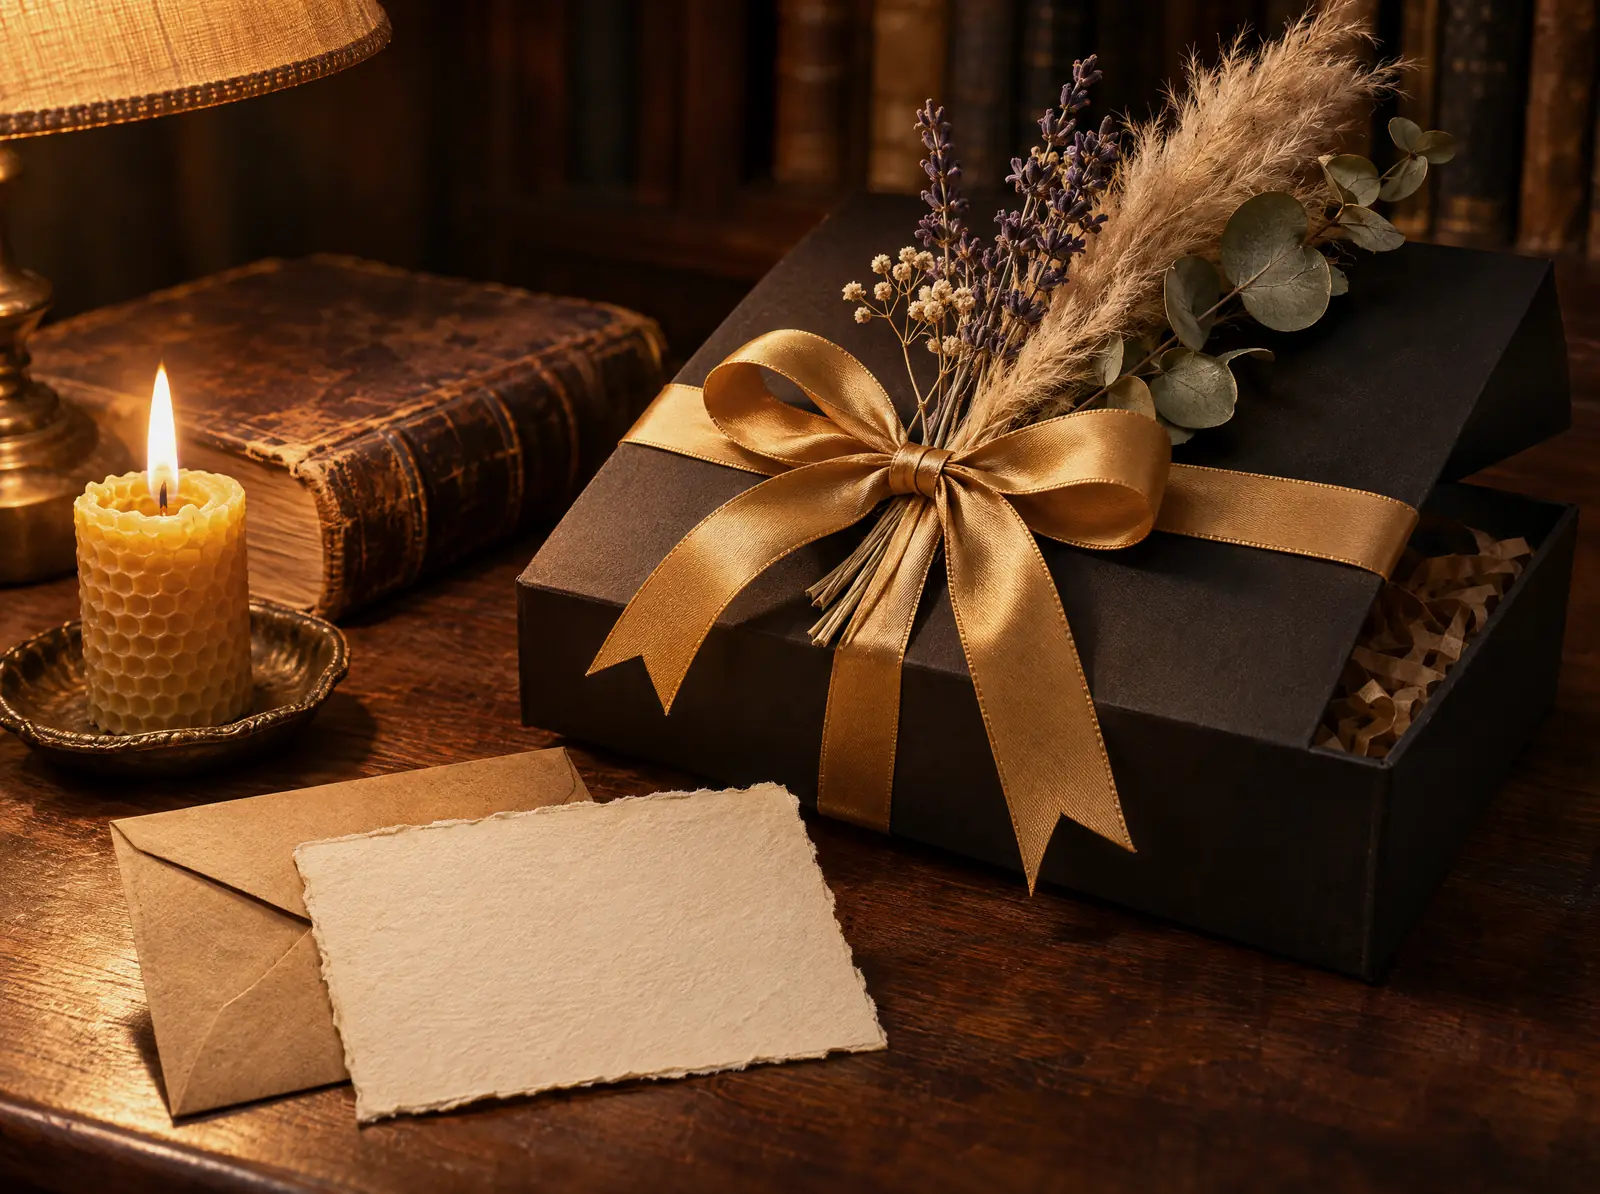
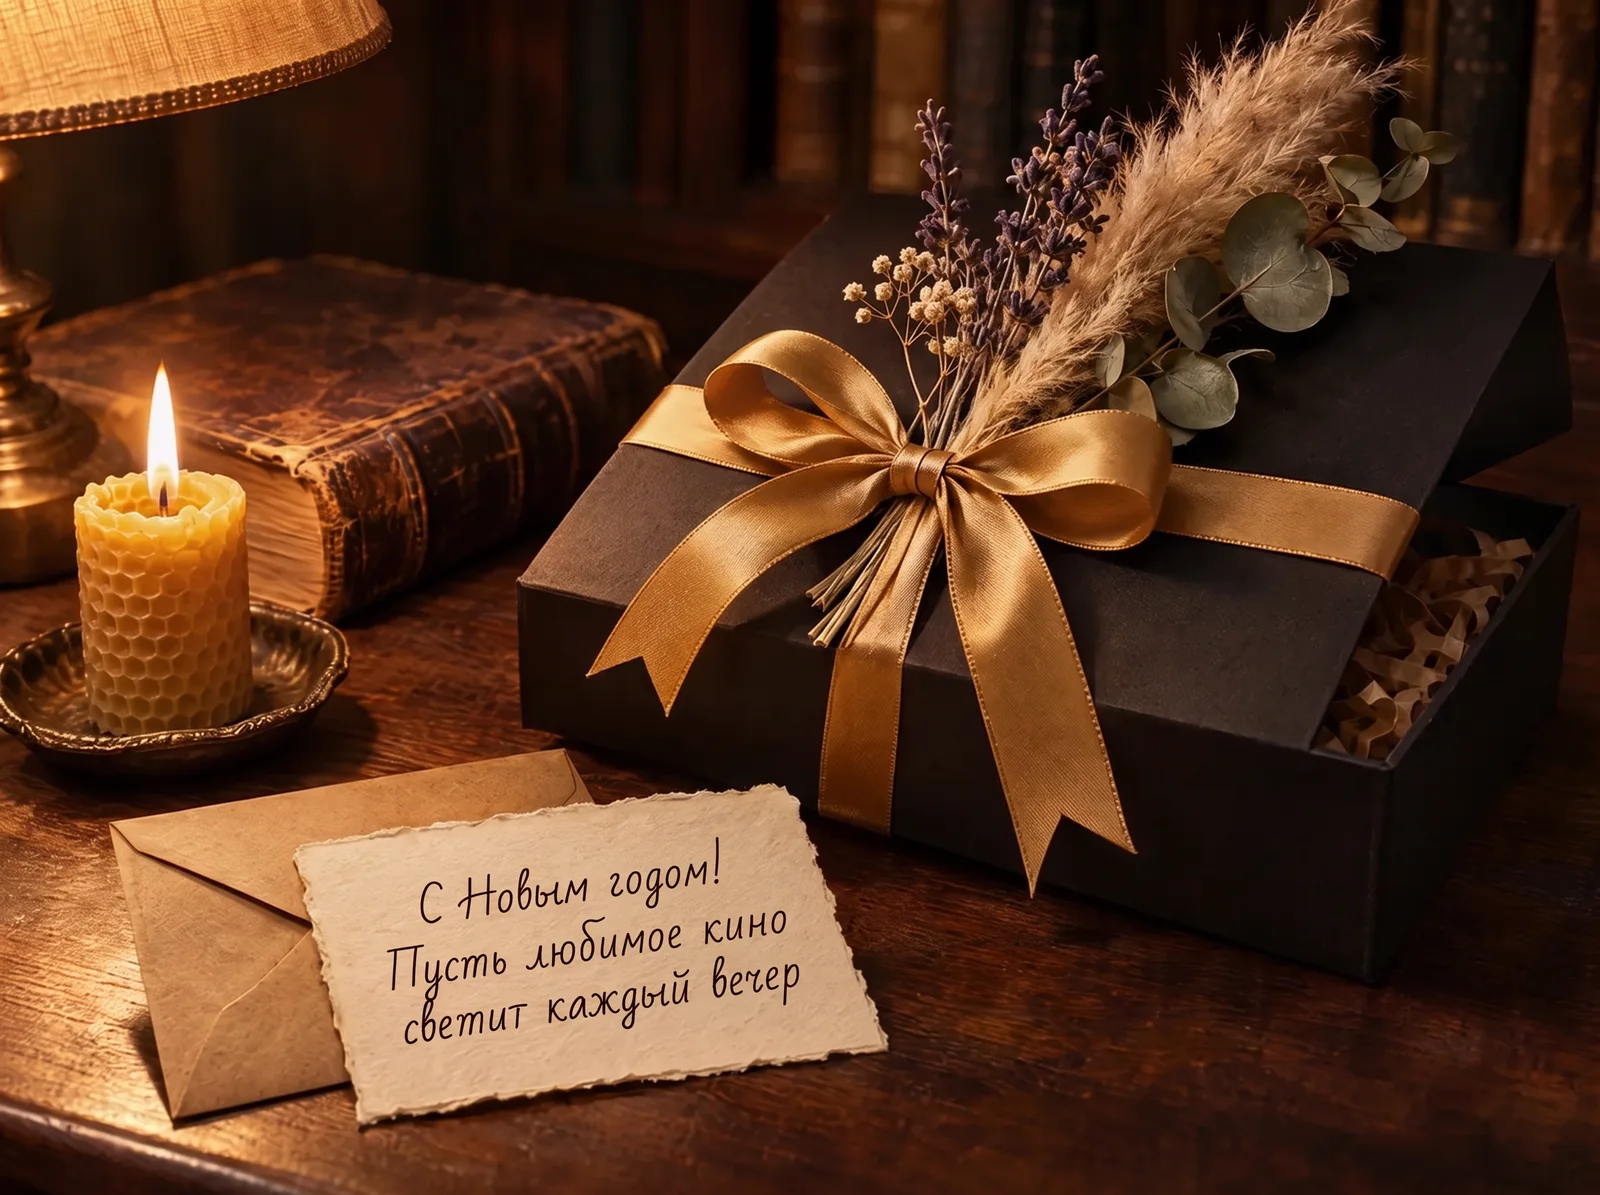
Сайт: рамки в интерьере для наборов, открытки с текстом, финал как на главном, телефон в документах

diff --git a/index.html b/index.html
@@ -643,9 +643,9 @@ html.bag-open, html.bag-open body { overflow: hidden; }
 <section class="sec gifts" id="gifts"><div class="wrap">
   <div class="sec-head rise"><div><h2>Подарок, который<br><em>включают каждый вечер</em></h2></div><p class="lead">В каждый набор — любой фильм из коллекции.</p></div>
   <div class="sets rise" id="gifts3">
-    <div class="set"><div class="pic"><img loading="lazy" decoding="async" src="img/lib/study.webp?v=aad1fa6f7a" alt="Рамка на стене кабинета"><div class="frames" id="set1"></div></div>
+    <div class="set"><div class="pic"><img loading="lazy" decoding="async" src="img/lib/set-one.webp?v=04b50ba6e7" alt="Световая рамка с постером «Убить Билла» на стене кабинета"></div>
       <div class="body"><h3>Одна рамка</h3><p>A4 или A3 с постером вашего фильма. Приходит собранной.</p><div class="row"><div class="pr"><span class="price">от 5&nbsp;000&nbsp;₽</span><span class="note">A4 или A3 на выбор</span></div><button class="btn line sm" data-pick="1" data-name="Proswet A3" data-price="6000">Выбрать фильм</button></div></div></div>
-    <div class="set"><div class="pic"><img loading="lazy" decoding="async" src="img/lib/living.webp?v=86c6701346" alt="Три рамки над диваном"><div class="frames three" id="set3"></div></div>
+    <div class="set"><div class="pic"><img loading="lazy" decoding="async" src="img/lib/set-three.webp?v=f5fe1ab6d4" alt="Три световые рамки над диваном: «Леон», «Сияние», «Паразиты»"></div>
       <div class="body"><h3>Три рамки</h3><p>Стена из трёх любимых фильмов. Каждая рамка — со своим постером.</p><div class="row"><div class="pr"><span class="price">12&nbsp;190&nbsp;₽</span><span class="note save">выгоднее на 560&nbsp;₽</span></div><button class="btn sm" data-pick="3" data-name="Три рамки Proswet" data-price="12190">Выбрать 3 фильма</button></div></div></div>
     <div class="set"><div class="pic"><img loading="lazy" decoding="async" src="img/lib/gift-open.webp?v=b4a28ee93b" alt="Рамка в подарочной коробке с лентой и сухоцветами"></div>
       <div class="body"><h3>Подарочный набор</h3><p>Большая коробка, атласная лента, сухоцветы и открытка с вашими словами.</p><div class="row"><div class="pr"><span class="price">5&nbsp;490&nbsp;₽</span><span class="note">коробка, лента, открытка</span></div><button class="btn line sm" data-pick="1" data-name="Подарочный набор Proswet" data-price="5490">Выбрать фильм</button></div></div></div>
@@ -654,8 +654,8 @@ html.bag-open, html.bag-open body { overflow: hidden; }
   <div class="pack rise">
     <div class="pack-t"><h3>Открыть коробку —<br><em>уже праздник</em></h3><p>Собираем каждый подарок руками.</p>
       <dl class="pk-list"><div><dt>Коробка</dt><dd>Жёсткая, чёрная, под размер рамки</dd></div><div><dt>Лента</dt><dd>Атласная, цвета мёда, с бантом</dd></div><div><dt>Сухоцветы</dt><dd>Небольшой букет под лентой</dd></div><div><dt>Открытка</dt><dd>10 × 15 см, с вашим текстом</dd></div></dl></div>
-    <div class="pack-i"><img loading="lazy" decoding="async" src="img/lib/gift-box.webp?v=bd017f0102" alt="Чёрная коробка с лентой и сухоцветами"></div>
-    <div class="pack-i"><img loading="lazy" decoding="async" src="img/lib/gift-flatlay.webp?v=fb8c0ecc6d" alt="Лента, сухоцветы, открытка"></div>
+    <div class="pack-i"><img loading="lazy" decoding="async" src="img/lib/gift-box.webp?v=62b73658d9" alt="Чёрная коробка с лентой и сухоцветами"></div>
+    <div class="pack-i"><img loading="lazy" decoding="async" src="img/lib/gift-flatlay.webp?v=698d703ff6" alt="Лента, сухоцветы, открытка"></div>
   </div>
 
   <div class="post" id="card">
@@ -717,7 +717,7 @@ html.bag-open, html.bag-open body { overflow: hidden; }
 
 <!-- 8. Финальная сцена -->
 <section class="finale" id="finale">
-  <img src="img/lib/finale.webp?v=2f9947c225" alt="" loading="lazy" decoding="async" id="finImg">
+  <img src="img/lib/finale.webp?v=ee44c47a21" alt="" loading="lazy" decoding="async" id="finImg">
   <div class="wall" id="finWall"><div class="frame lit"><div class="poster"><img id="finPoster" alt=""></div></div></div>
   <div class="wrap"><div class="finale-copy rise">
     <h2>Пусть любимый фильм<br><em>светит вам по вечерам</em></h2>
@@ -817,7 +817,7 @@ const openOrdersOnLoad = location.hash === "#orders";
 if (location.hash) history.replaceState(null, "", location.pathname + location.search);
 scrollTo(0, 0); addEventListener("pageshow", () => scrollTo(0, 0));
 document.addEventListener("click", e => { const a = e.target.closest('a[href^="#"]'); if (!a) return; const id = a.getAttribute("href").slice(1), t = id ? document.getElementById(id) : null; if (!id || !t) return; e.preventDefault(); t.scrollIntoView({ behavior: "smooth" }); });
-const AV = "ee70506609";
+const AV = "1e06b81c14";
 const P = h => { h = h.split("?")[0]; return "img/w/" + (h.includes(".") ? h.split("/").pop().replace(/\.\w+$/, "") : h.split("/").pop()) + ".webp?v=" + AV; };
 const T = h => P(h).replace("img/w/", "img/t/");
 // весь ассортимент подгружаем фоном после загрузки страницы: сначала миниатюры, потом большие постеры
@@ -1093,7 +1093,7 @@ document.addEventListener("keydown", e => { if (e.key === "Escape") ["catOv", "f
 // ---------- наборы: живые рамки на фото ----------
 const frameHtml = i => '<div class="frame lit"><div class="poster"><img decoding="async" loading="lazy" alt="" src="' + T(films[i].img) + '"></div></div>';
 function drawSets() { if (!$("set1")) return; const one = cfg.poster; if ($("set1").dataset.i != one) { $("set1").dataset.i = one; $("set1").innerHTML = frameHtml(one); } }
-$("set3").innerHTML = ["Леон", "Сияние", "Паразиты"].map(byTitle).map(frameHtml).join("");
+if ($("set3")) $("set3").innerHTML = ["Леон", "Сияние", "Паразиты"].map(byTitle).map(frameHtml).join("");
 
 // ---------- ролик «Как это работает»: человек сам включает свет ----------
 (function () {
@@ -1144,7 +1144,7 @@ function initCard() {
 }
 
 // ---------- финальная сцена: рамка с вашим фильмом светит в темноте ----------
-function layoutFinale() { const img = $("finImg"); if (!img) return; const m = narrow(); placeWall($("finWall"), m ? img : $("finale"), 2560, 1448, .665, .35, .5, m ? .66 : .5, .5); if (m) { $("finWall").style.top = (parseFloat($("finWall").style.top) + img.offsetTop) + "px"; } }
+function layoutFinale() { const img = $("finImg"); if (!img) return; const m = narrow(); placeWall($("finWall"), m ? img : $("finale"), 2560, 1429, .665, .36, .5, m ? .66 : .5, .5); if (m) { $("finWall").style.top = (parseFloat($("finWall").style.top) + img.offsetTop) + "px"; } }
 
 // ---------- шапка, появление, меню ----------
 { const hdr = $("hdr"); const on = () => { hdr.classList.toggle("solid", scrollY > 40); document.body.classList.toggle("past-hero", scrollY > innerHeight * .8); }; addEventListener("scroll", on, { passive: true }); on(); }

diff --git a/oferta.html b/oferta.html
@@ -79,7 +79,7 @@ footer{border-top:1px solid var(--hair);padding:28px 16px;text-align:center;colo
   <div><span>ОГРНИП</span><span>325300000023116</span></div>
   <div><span>Адрес для корреспонденции</span><span><span class="fill">уточняется</span></span></div>
   <div><span>Почта</span><span><span class="fill">уточняется</span></span></div>
-  <div><span>Телефон</span><span><span class="fill">уточняется</span></span></div>
+  <div><span>Телефон</span><span><a href="tel:+79936393350">+7 993 639-33-50</a></span></div>
   <div><span>Telegram</span><span><a href="https://t.me/proswet_store" target="_blank" rel="noopener">@proswet_store</a></span></div>
   <div><span>Сайт</span><span>proswetstore.ru</span></div>
 </div>

diff --git a/privacy.html b/privacy.html
@@ -70,7 +70,7 @@ footer{border-top:1px solid var(--hair);padding:28px 16px;text-align:center;colo
   <div><span>ОГРНИП</span><span>325300000023116</span></div>
   <div><span>Адрес для корреспонденции</span><span><span class="fill">уточняется</span></span></div>
   <div><span>Почта</span><span><span class="fill">уточняется</span></span></div>
-  <div><span>Телефон</span><span><span class="fill">уточняется</span></span></div>
+  <div><span>Телефон</span><span><a href="tel:+79936393350">+7 993 639-33-50</a></span></div>
   <div><span>Telegram</span><span><a href="https://t.me/proswet_store" target="_blank" rel="noopener">@proswet_store</a></span></div>
   <div><span>Сайт</span><span>proswetstore.ru</span></div>
 </div>
